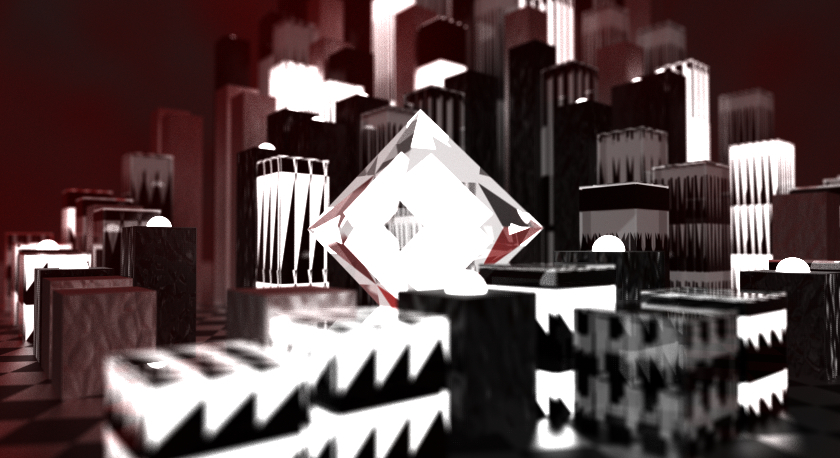
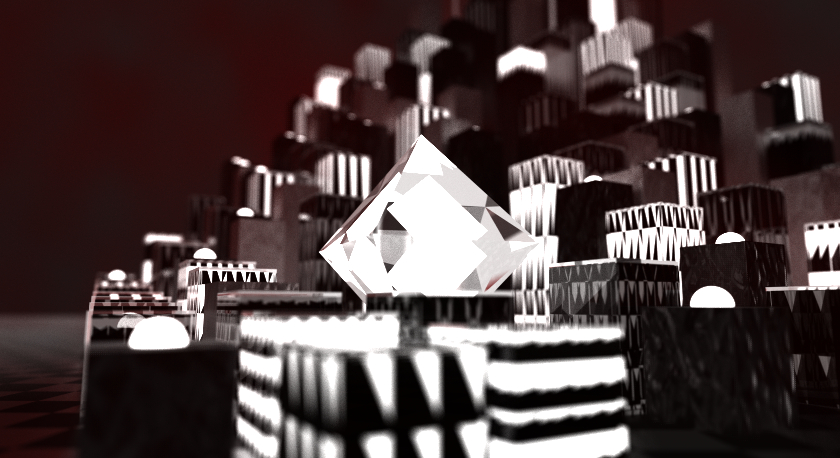
Update test scenes. Update test scene images.

diff --git a/src/store/index.js b/src/store/index.js
@@ -25,6 +25,7 @@ const defaultMaxSampleCount = 10;
 // const defaultSceneUrl = 'assets/scenes/basic-scene/index.js.rtr';
 // const defaultSceneUrl = 'assets/scenes/example-scene/index.js.rtr';
 // const defaultSceneUrl = 'assets/scenes/example-volume-fbm-scene/index.js.rtr';
+
 // const defaultSceneUrl = 'assets/scenes/normal-map-test-scene/index.js.rtr';
 // const defaultSceneUrl = 'assets/scenes/volume-test-scene/index.js.rtr';
 // const defaultSceneUrl = 'assets/scenes/aniso-volume-test-scene/index.js.rtr';
@@ -32,7 +33,7 @@ const defaultMaxSampleCount = 10;
 // const defaultSceneUrl = 'assets/scenes/volume-3d-texture-tileable-test-scene/index.js.rtr';
 // const defaultSceneUrl = 'assets/scenes/example-model-scene/index.js.rtr';
 // const defaultSceneUrl = 'assets/scenes/model-test-scene/index.js.rtr';
-const defaultSceneUrl = 'assets/scenes/material-test-scene/index.js.rtr';
+// const defaultSceneUrl = 'assets/scenes/material-test-scene/index.js.rtr';
 
 let instance = null;
 class Store {

diff --git a/README.md b/README.md
@@ -18,6 +18,7 @@ This project started as a glsl implementation of the path tracer described by Pe
   - Regular & dynamic textures
   - Normal maps
   - Realtime mode with a positionable turntable camera
+  - Depth of field
   - Bounding Volume Hierarchy (BVH) acceleration (many, many thanks to [Erich Loftis](https://github.com/erichlof) for helping me out with this)
   - Isotripic (homogenous) & anisotropic (inhomogenous) volume support
   - 3d texture support for volumes
